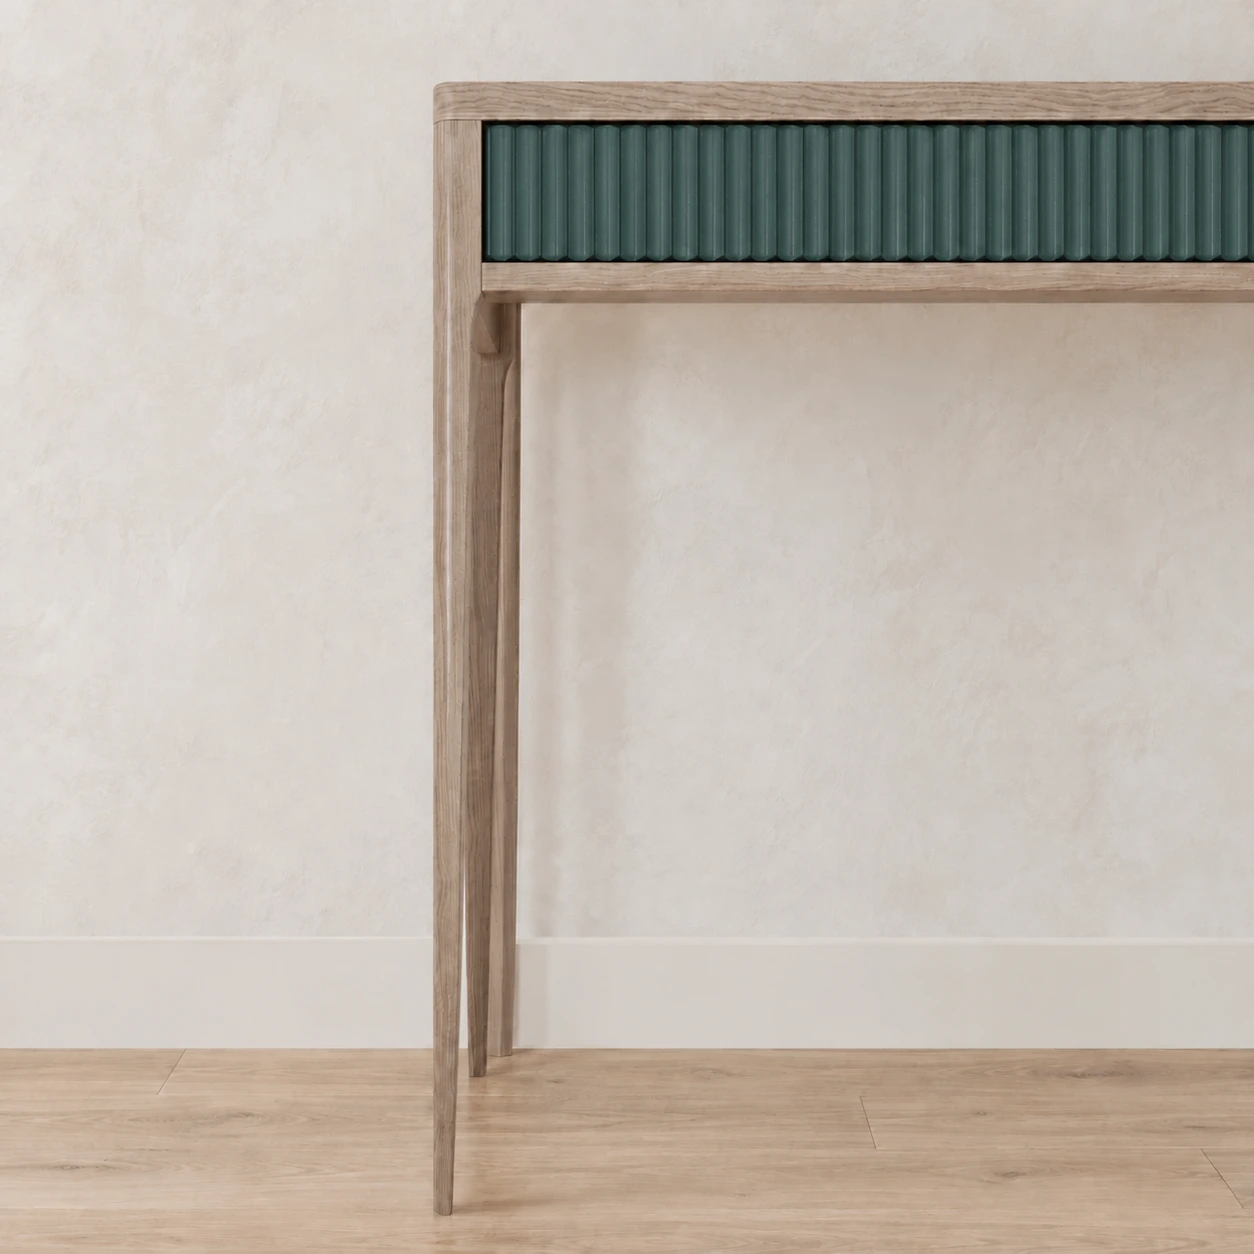
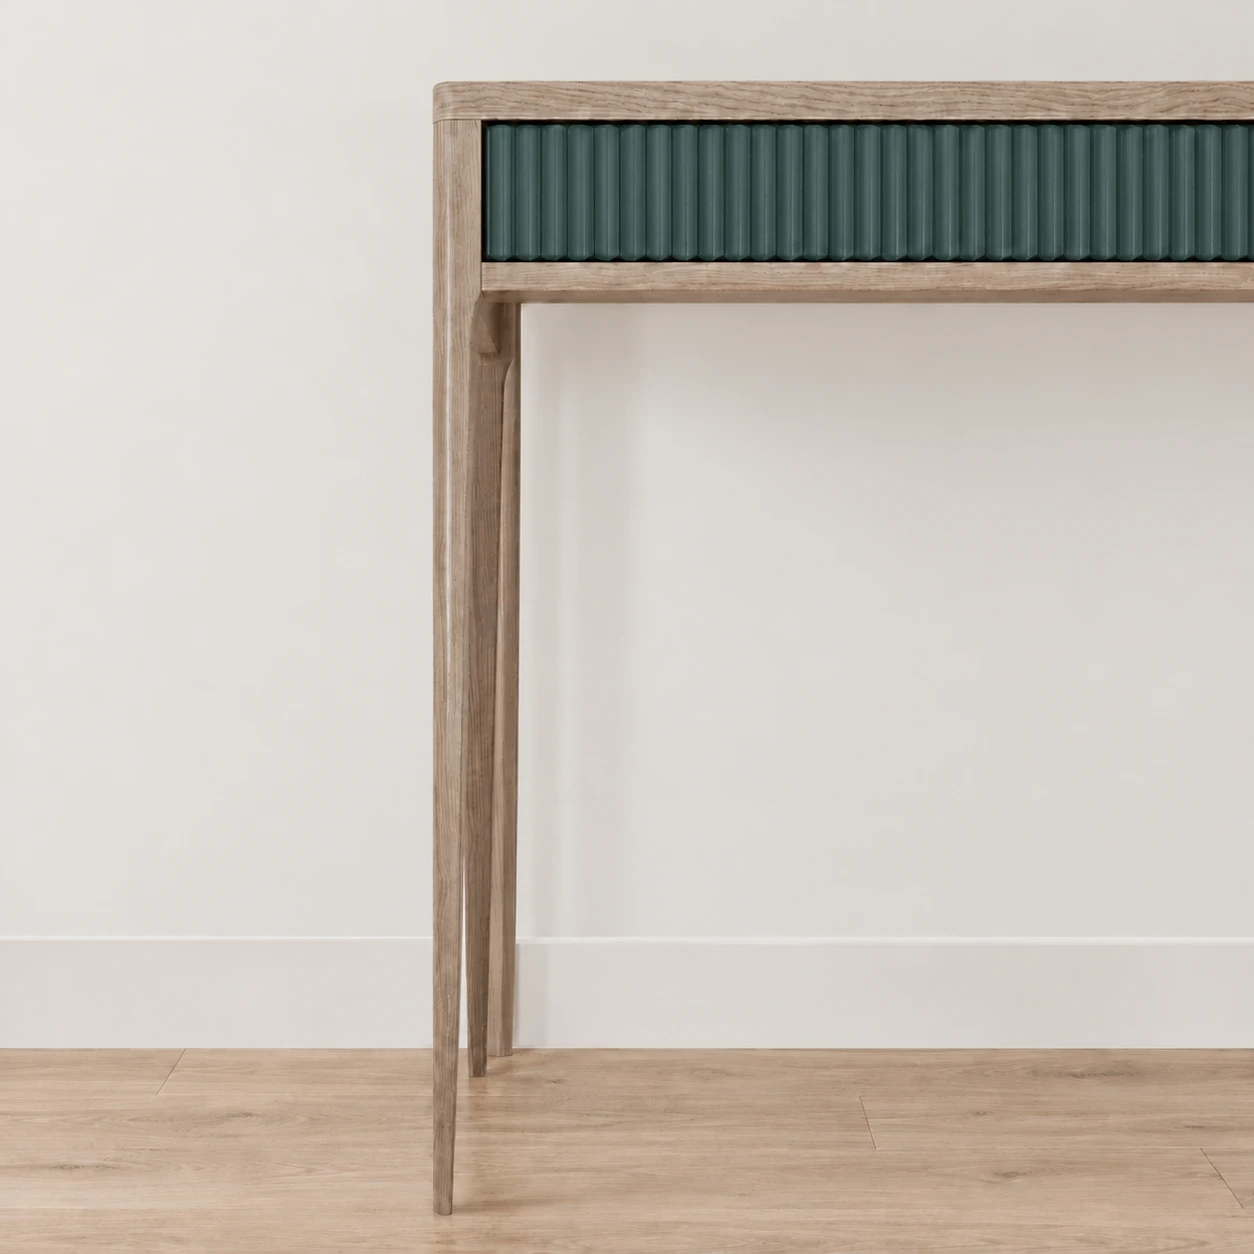
Use a smooth milk-gray wall behind the accent Greenwich detail

diff --git a/apps/storefront/public/editorial/home/craft/SOURCES.md b/apps/storefront/public/editorial/home/craft/SOURCES.md
@@ -8,3 +8,5 @@ Owner-reviewed AI-assisted edits of original Woodright catalog materials, made w
 - `oliver-room-series-modern.webp`: ensemble from `7e7385ee12_oliver-teen copy.jpg`; linen curtains, quiet rug and one vase on the dresser.
 
 Prompts and source/output records: `apps/storefront/docs/design/editorial-images-20261023.json`.
+
+Final Greenwich correction: smooth uniform milk-gray matte painted wall, replacing mottled plaster. Furniture accent finish retained. Exact edit prompt is in the provenance record.
